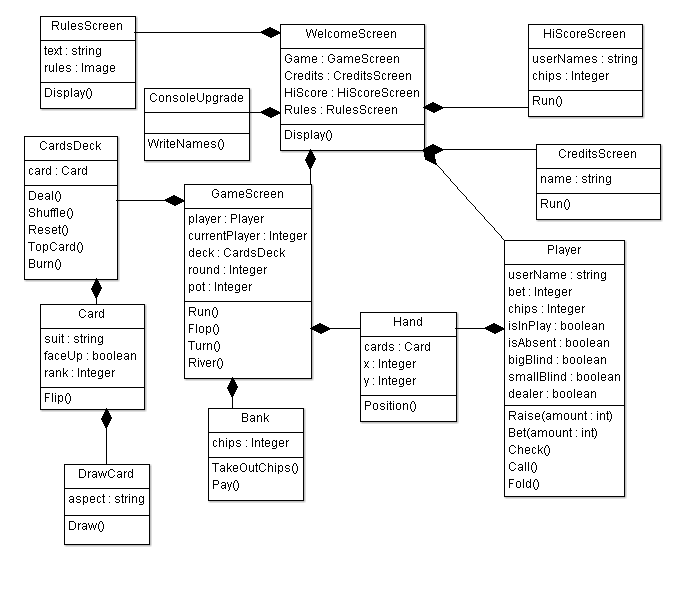
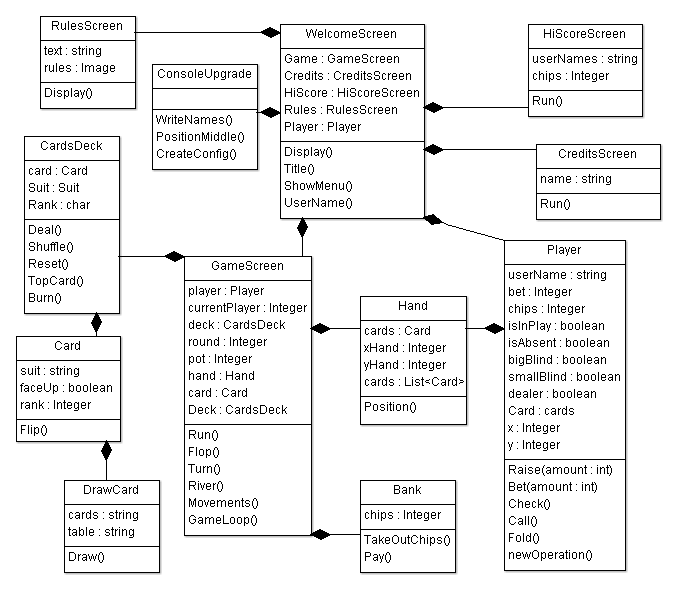
First session of Version 006

Changed region(s): [[0.0308, 0.0, 0.9853, 0.9394], [0.6466, 0.3636, 0.739, 0.3939]]

diff --git a/PokerMasters/GameScreen.cs b/PokerMasters/GameScreen.cs
@@ -1,18 +1,26 @@
 using System;
+using System.Collections.Generic;
 
 public class GameScreen
 {
-    public Player player { get; set; }
+    public struct Positions
+    {
+        public int X;
+        public int Y;
+    }
+    public List<Player> Players { get; set; }
     private Hand Hand { get; set; }
     private int currentPlayer;
     private Card Card;
     private CardsDeck Deck { get; set; }
     private int round;
     public int pot;
+    public int Index { get; set; }
 
-    public GameScreen(Player player)
+    public GameScreen()
     {
-        this.player = player;
+        Players = new List<Player>();
+        Index = 0;
     }
 
     // Created the structure to choose the movements
@@ -29,23 +37,23 @@ public class GameScreen
             {
                 case "fold":
                     //Console.Clear();
-                    player.Fold();
+                    Players[Index].Fold();
                     //Console.Clear();
                     break;
                 case "check":
                     Console.Clear();
-                    player.Check();
+                    Players[Index].Check();
                     Console.Clear();
                     break;
                 case "call":
                     Console.Clear();
-                    player.Call();
+                    Players[Index].Call();
                     Console.Clear();
                     break;
                 case "raise":
-                    Console.Clear();
-                    player.Raise();
-                    Console.Clear();
+                    //Console.Clear();
+                    Players[Index].Raise();
+                    //Console.Clear();
                     break;
                 default:
                     Console.Clear();
@@ -79,45 +87,73 @@ public class GameScreen
         Console.WriteLine();
     }
 
-    public void Run(string name)
+    public void Run(string[] names)
     {
         Deck = new CardsDeck();
 
         ShowMenu();
         // Position for username #1 with name in game and chips
-        Hand hand = new Hand();
-        hand.Position();
+        /*Hand hand = new Hand();
+        hand.Position();*/
+        Positions[] positions = new Positions[6];
+        positions[0].X = 10;
+        positions[0].Y = 5;
+        positions[1].X = 55;
+        positions[1].Y = 5;
+        positions[2].X = 95;
+        positions[2].Y = 5;
+        positions[3].X = 10;
+        positions[3].Y = 30;
+        positions[4].X = 55;
+        positions[4].Y = 30;
+        positions[5].X = 95;
+        positions[5].Y = 30;
 
-        
-        Player player1 = new Player(name);
-        player1.X = 0;
-        player1.Y = 15;
-        player1.UserName = name;
+        for (int i = 0; i < names.Length; i++)
+        {
+            Player player = new Player(names[i]);
+            //player.X = 0;
+            //player.Y = 15;
 
-        Console.SetCursorPosition(player1.X, player1.Y-2);
-        Console.WriteLine("Name: "+player1.UserName);
-        Console.SetCursorPosition(player1.X, player1.Y - 1);
-        Console.WriteLine("Chips: "+player1.Chips);
-        DrawCard.Draw(player1,Deck);
+            player.UserName = names[i];
+            Players.Add(player);
+        }
+
+        for (int i = 0; i < Players.Count; i++)
+        {
+            //Players[i].X
+            Console.SetCursorPosition(positions[i].X, positions[i].Y );
+            Console.WriteLine("Name: " + Players[i].UserName);
+            Console.SetCursorPosition(positions[i].X, positions[i].Y );
+            Console.WriteLine("Chips: " + Players[i].Chips);
+            DrawCard.Draw(Players[i], Deck);
+        }
 
         DrawCard.DrawTable(Deck, pot);
 
-
         GameLoop();
-
-        // To do
     }
 
     public void GameLoop()
     {
         do
         {
-            //1-Check user input
+            //1 Check user input
             Movements(50);
 
-            //2-Check collision
+            //2 Movements
+            if (Index < Players.Count)
+            {
+                Index++;
+            }
+            else
+            {
+                Index = 0;
+            }
 
-            //3-Draw
+            //3 Check collision
+
+            //4 Draw
             DrawCard.DrawTable(Deck, pot);
 
         } while (true);

diff --git a/PokerMasters/WelcomeScreen.cs b/PokerMasters/WelcomeScreen.cs
@@ -28,16 +28,23 @@ public class WelcomeScreen
     }
 
     // We asked the user his name of the game
-    public string UserName()
+    public string[] UserName()
     {
-        string name;
-        do
+        Console.Write("Enter a number of players: ");
+        int nPlayers = Convert.ToInt32(Console.ReadLine());
+
+
+        string[] name = new string[nPlayers];
+        for (int i = 0; i < nPlayers; i++)
         {
-            Console.WriteLine("Enter your user name: ");
-            name = Console.ReadLine();
-        } while (name == "");
-        Console.Clear();
-        Console.WriteLine("Welcome to PokerMasters {0}!", name);
+            do
+            {
+                Console.WriteLine("Enter your user name #" + (i + 1) + ": ");
+                name[i] = Console.ReadLine();
+            } while (name[i] == "");
+            Console.Clear();
+            Console.WriteLine("Welcome to PokerMasters {0}!", name[i]);
+        }
         return name;
     }
 
@@ -49,7 +56,7 @@ public class WelcomeScreen
         HiScoreScreen HiScore;
         RulesScreen Rules;
 
-        string name = UserName();
+        string[] name = UserName();
         ShowMenu();
 
         string option = Console.ReadLine();
@@ -61,13 +68,13 @@ public class WelcomeScreen
             {
                 case "1":
                     Console.Clear();
-                    Game = new GameScreen(Player);
+                    Game = new GameScreen();
                     Game.Run(name);
                     Console.Clear();
                     break;
                 case "2":
                     Console.Clear();
-                    Game = new GameScreen(Player);
+                    Game = new GameScreen();
                     Game.Run(name);
                     Console.Clear();
                     break;
@@ -108,6 +115,7 @@ public class WelcomeScreen
     // Main loop of the welcome screen
     public static void Main()
     {
+        Console.SetWindowSize(140, 35);
         WelcomeScreen Welcome = new WelcomeScreen();
         Title();
         Welcome.Display();

diff --git a/PokerMasters/Hand.cs b/PokerMasters/Hand.cs
@@ -3,9 +3,8 @@ using System.Collections.Generic;
 
 public class Hand
 {
-    public int xHand;
-    public int yHand;
-
+    
+    
     // A list of cards has been made in the hand class and the AddCard method
     // has been created to add cards to the hand
     protected List<Card> cards = new List<Card>();
@@ -18,7 +17,6 @@ public class Hand
     // Established position where stay the hand of player #1
     public void Position()
     {
-        xHand = 0;
-        yHand = 15;
+        
     }
 }

diff --git a/PokerMasters/ConsoleUpgrade.cs b/PokerMasters/ConsoleUpgrade.cs
@@ -10,8 +10,8 @@ public class ConsoleUpgrade : Hand
     // You should assign a different position for each player.
     public void Position()
     {
-        xHand = xHand + 10;
-        yHand = yHand + 10;
+        //xHand = xHand + 10;
+        //yHand = yHand + 10;
     }
 
     //Write the player's characteristics to the right of the welcome screen.

diff --git a/PokerMasters/DrawCard.cs b/PokerMasters/DrawCard.cs
@@ -70,7 +70,7 @@ public class DrawCard
 
         for (int i = 0; i < table.Length; i++)
         {
-            Console.SetCursorPosition(0, 2+i);
+            Console.SetCursorPosition(40, 12+i);
             Console.WriteLine(table[i]);
         }
     }
